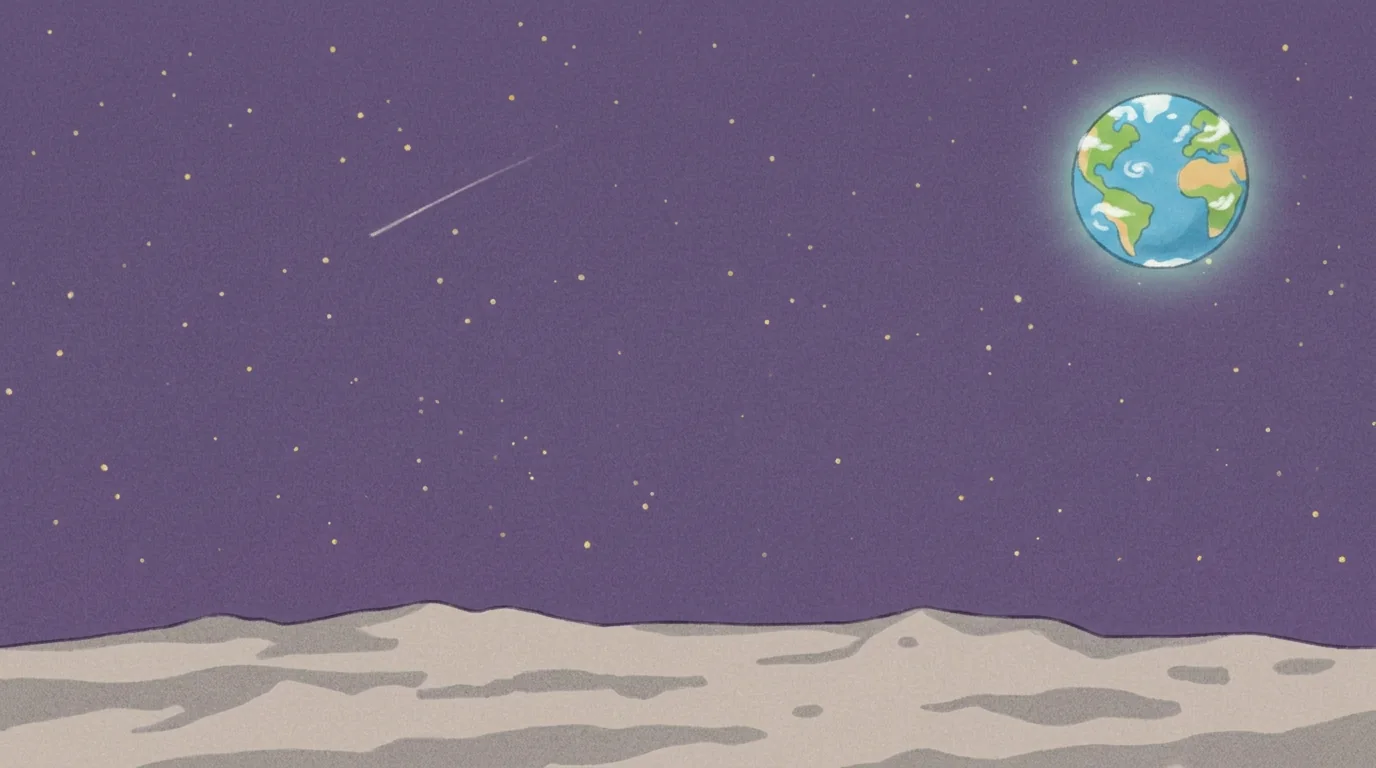
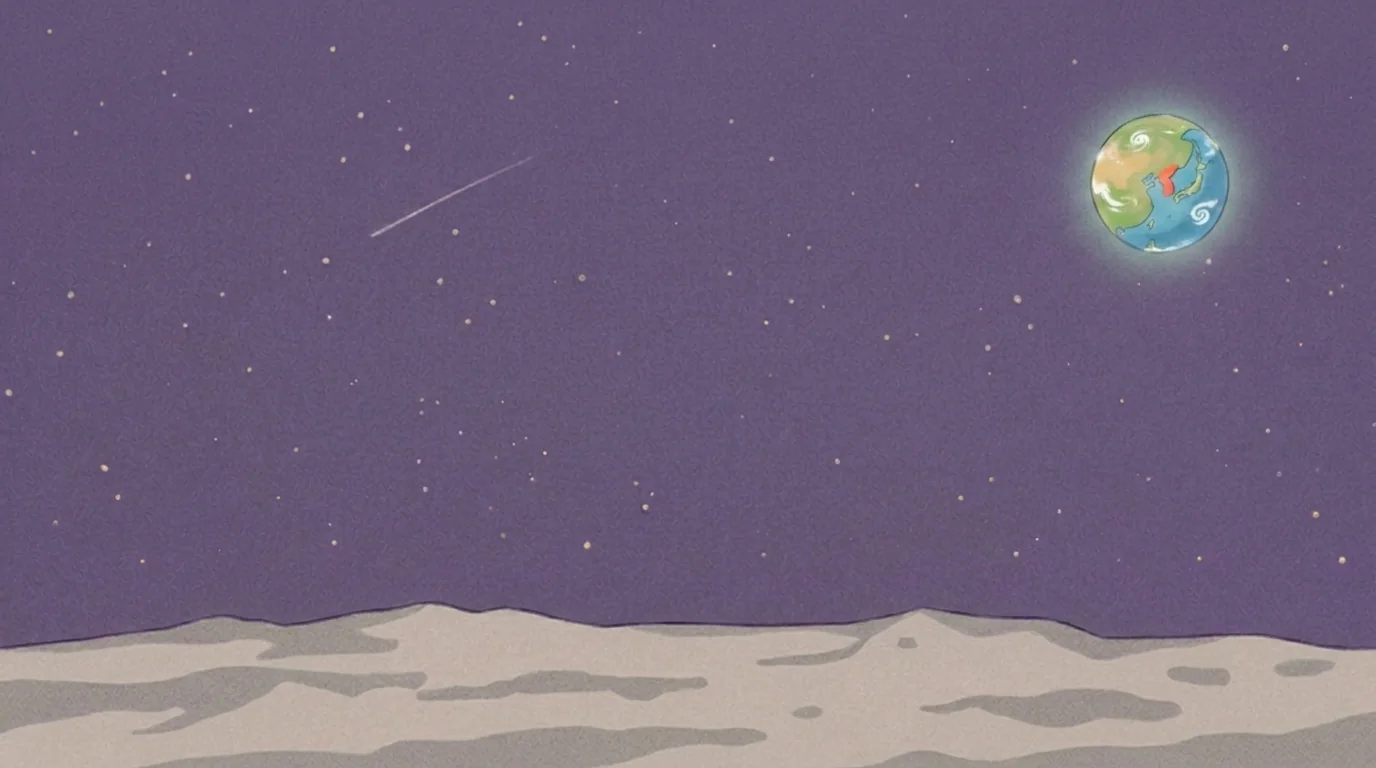
feat: 대환장 테스트 지구 개선 — 절반 크기로 축소(실측 지름 211→111px), 동아시아가 보이게 회전하고 한반도만 코랄 레드로 강조. 행성 클릭 핫스팟을 새 지구 중심(1173,190)·크기에 맞춰 보정. 고브럽도 우주선·토성처럼 호버 시 흰 윤곽 발광(홈+허브 공통)

diff --git a/play/js/hub-fan.js b/play/js/hub-fan.js
@@ -28,7 +28,8 @@
   css.textContent = "\
 .hg-goblub{position:fixed;left:0;top:0;z-index:4;width:170px;cursor:pointer;will-change:transform;visibility:hidden;transition:opacity .18s}\
 .hg-goblub .bodywrap{position:relative;width:100%;will-change:transform}\
-.hg-goblub img{width:100%;height:auto;display:block;user-select:none;-webkit-user-drag:none;filter:drop-shadow(0 8px 9px rgba(0,22,32,.22))}\
+.hg-goblub img{width:100%;height:auto;display:block;user-select:none;-webkit-user-drag:none;filter:drop-shadow(0 8px 9px rgba(0,22,32,.22));transition:filter .18s}\
+.hg-goblub:hover img{filter:drop-shadow(0 8px 9px rgba(0,22,32,.22)) drop-shadow(0 0 8px rgba(255,255,255,.85))}\
 .hg-mouth{position:absolute;left:57.33%;top:39.22%;width:30.4%;height:29.75%;border-radius:50%;overflow:hidden;pointer-events:none;\
 -webkit-mask-image:radial-gradient(circle,#000 58%,transparent 96%);mask-image:radial-gradient(circle,#000 58%,transparent 96%)}\
 .hg-mouth svg{display:block;width:100%;height:100%;filter:blur(.5px);animation:hg-spin 2.6s linear infinite}\

diff --git a/index.html b/index.html
@@ -187,7 +187,11 @@
     .gm-goblub, .gm-obj, .gm-shad, .gm-spark, .gm-cabin { visibility: hidden; }
     .gm-goblub .bodywrap { position: relative; width: 100%; will-change: transform; }
     .gm-goblub img { width: 100%; height: auto; display: block; user-select: none; -webkit-user-drag: none;
-      filter: drop-shadow(0 8px 9px rgba(0, 22, 32, .22)); }
+      filter: drop-shadow(0 8px 9px rgba(0, 22, 32, .22)); transition: filter .18s; }
+    /* 클릭 가능 표시: 우주선·토성처럼 호버 시 흰 윤곽 발광 */
+    .gm-goblub:hover img {
+      filter: drop-shadow(0 8px 9px rgba(0, 22, 32, .22)) drop-shadow(0 0 8px rgba(255, 255, 255, .85));
+    }
     /* 입 소용돌이 회전(옆모습으로 걸을 때만) — 소용돌이 중심(0.7253,0.541), 이빨 밖 반경 15.2%만 클립 */
     .gm-mouth { position: absolute; left: 57.33%; top: 39.22%; width: 30.4%; height: 29.75%;
       border-radius: 50%; overflow: hidden; pointer-events: none;

diff --git a/play/tests.html b/play/tests.html
@@ -136,7 +136,7 @@
         '<a href="../apps.html"><span>📱</span>앱 다운로드</a>' +
         '<a href="../mypage.html"><span>' + (loggedIn ? "👤" : "🔑") + '</span>' + (loggedIn ? "마이페이지" : "로그인") + '</a>';
       document.body.appendChild(hot); document.body.appendChild(menu);
-      var SAT = { w: 1376, h: 768, x: 1151, y: 150, r: 78 };
+      var SAT = { w: 1376, h: 768, x: 1173, y: 190, r: 56 }; // 이 페이지 천체=작은 지구(실측 중심·크기)
       function place() {
         var W = window.innerWidth, H = window.innerHeight;
         var s = Math.max(W / SAT.w, H / SAT.h);
